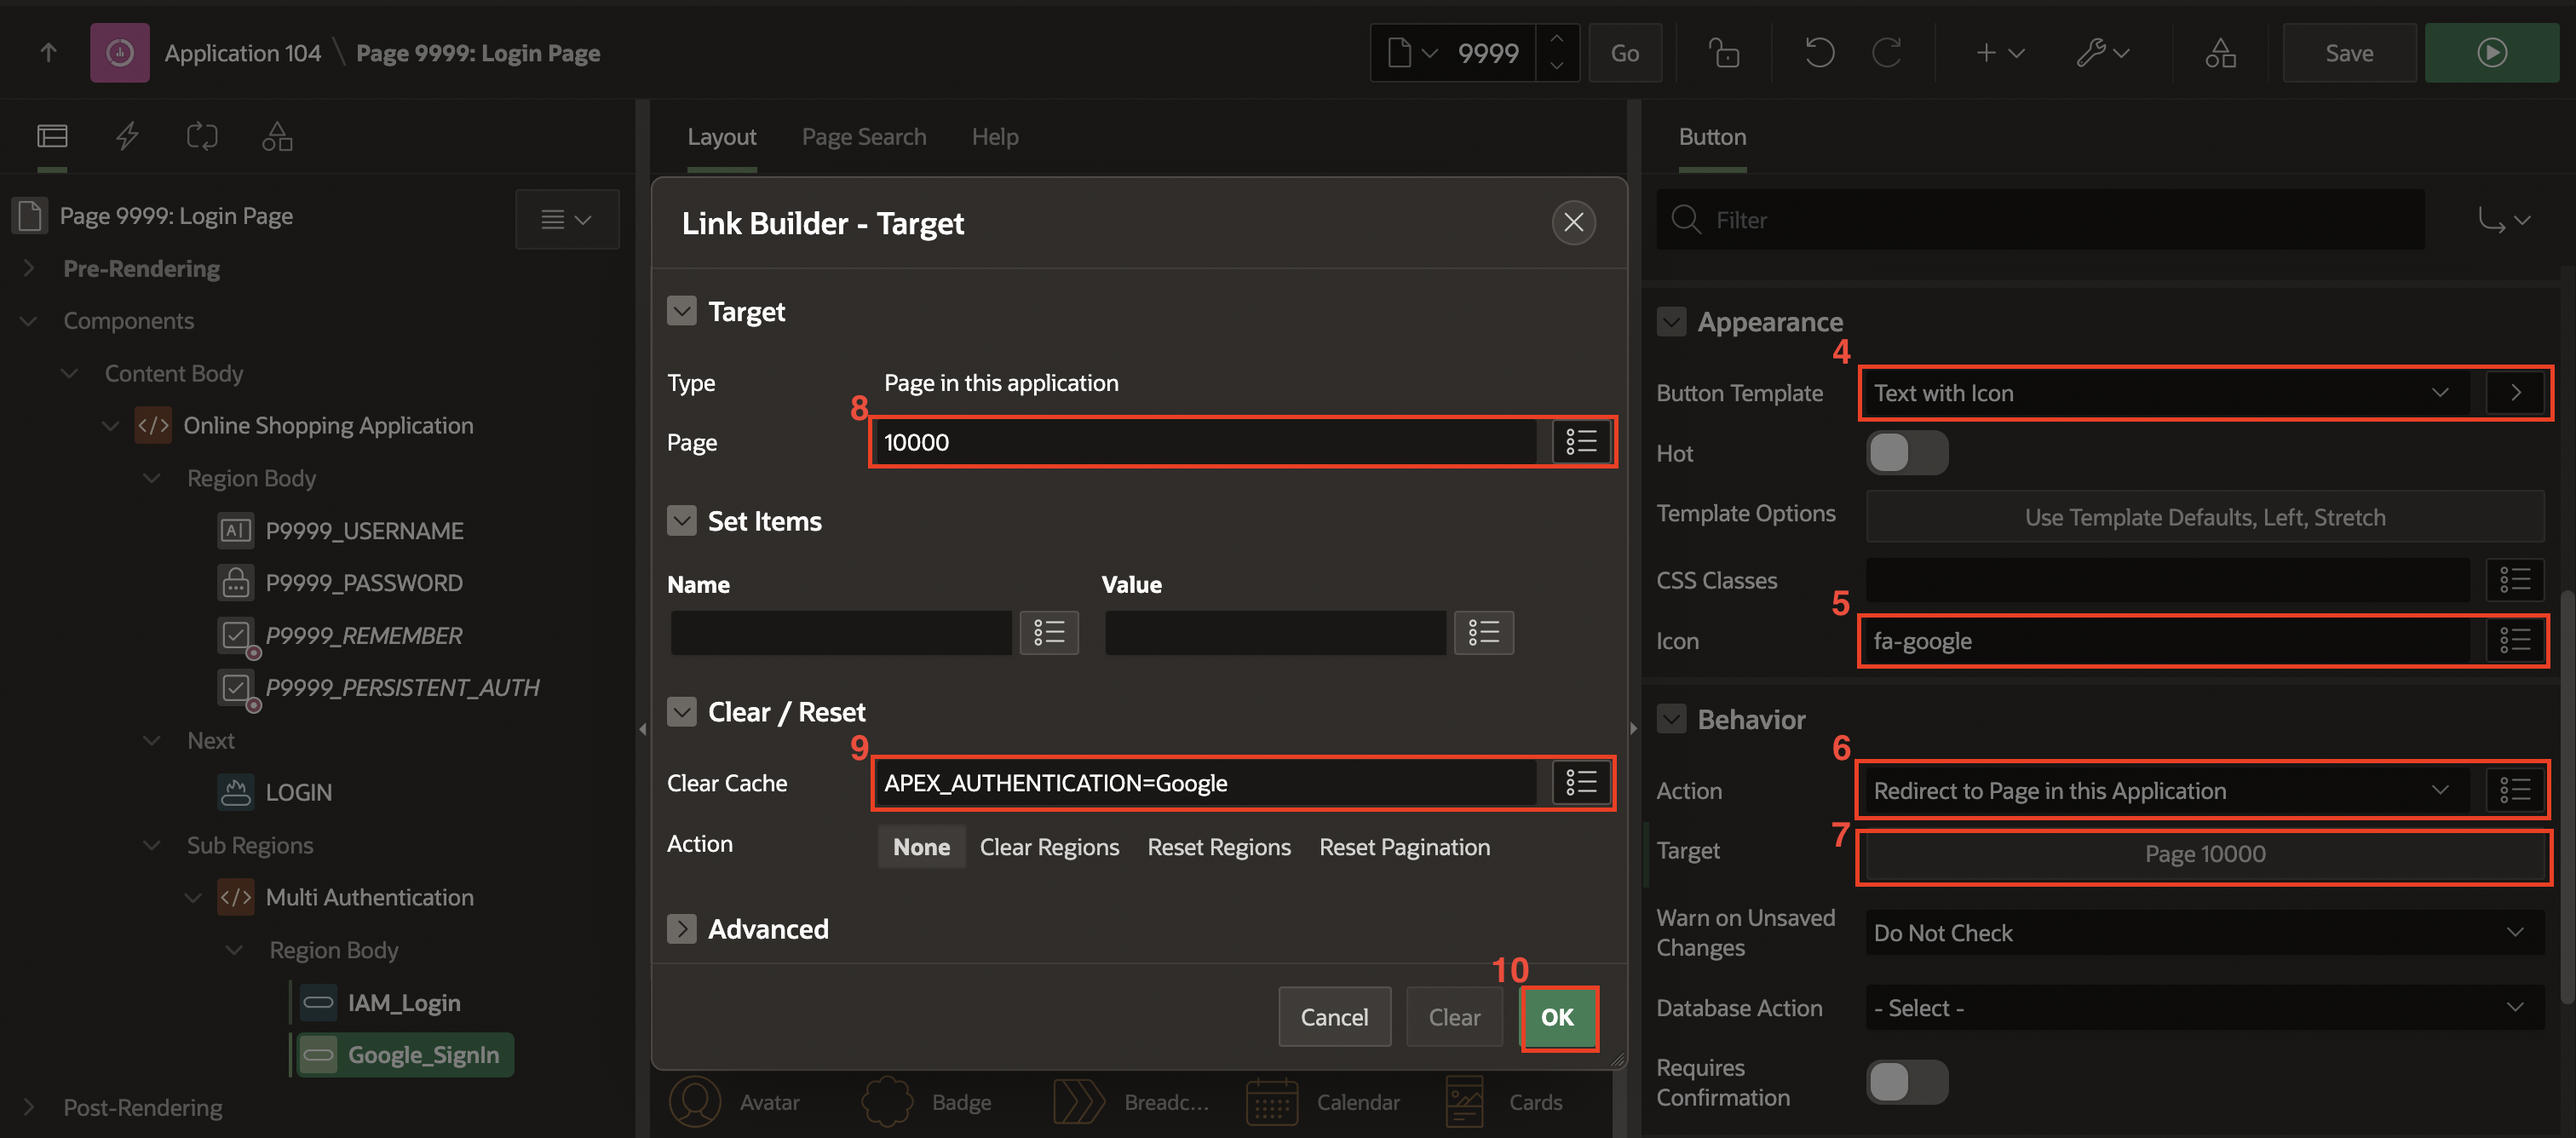
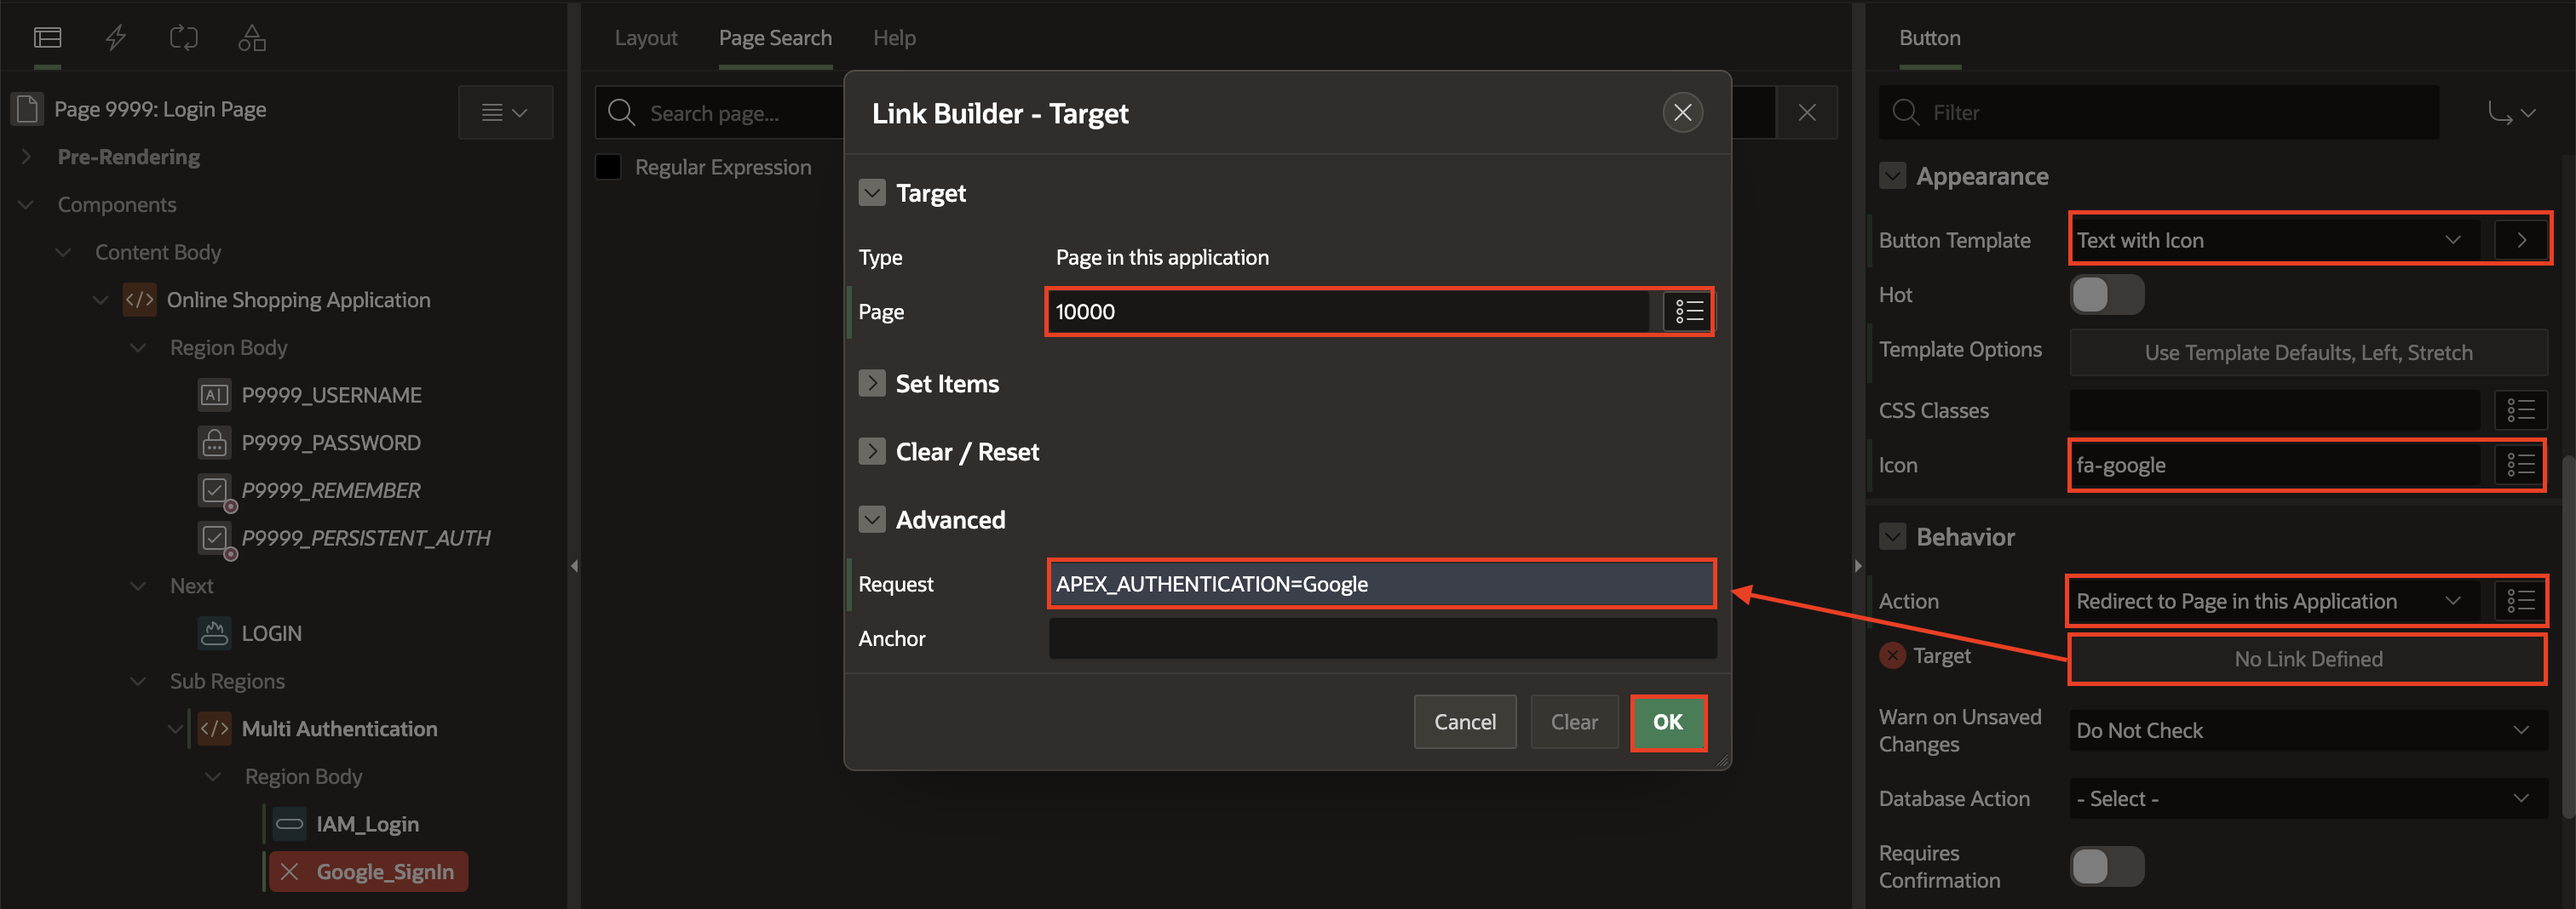
hol17

diff --git a/apex-professional-hol17/implementing-security-inapp.md b/apex-professional-hol17/implementing-security-inapp.md
@@ -8,9 +8,25 @@ This hands-on lab demonstrates how to integrate these features step-by-step, ens
 
 Estimated Time: 20 minutes
 
+### Objectives
+
+In this lab, you will:
+
+- Configure Oracle IAM authentication for an application.
+
+- Implement Google Authentication for seamless social sign-in.
+
+- Enable multiple authentication schemes within an Oracle APEX application.
+
 ### Downloads
 
-- Did you miss out on trying the previous labs? Don't worry! You can download the application from **[here](files/online-shopping-cart-10.sql)** and import it into your workspace. To run the app, please run the steps described in **[Get Started with Oracle APEX](https://livelabs.oracle.com/pls/apex/r/dbpm/livelabs/run-workshop?p210_wid=3509)** and **[Using SQL Workshop](https://livelabs.oracle.com/pls/apex/r/dbpm/livelabs/run-workshop?p210_wid=3524)** workshops.
+ Did you miss out on trying the previous labs? Don't worry! You can download the application from **[here](files/online-shopping-cart-10.sql)** and import it into your workspace.
+
+To run the app, please run the steps described in
+
+- **[Get Started with Oracle APEX](https://livelabs.oracle.com/pls/apex/r/dbpm/livelabs/run-workshop?p210_wid=3509)**
+
+- **[Using SQL Workshop](https://livelabs.oracle.com/pls/apex/r/dbpm/livelabs/run-workshop?p210_wid=3524)**
 
 ## Task 1: Configure Oracle IAM Authentication in Online Shopping Application
 
@@ -334,6 +350,8 @@ Providing multiple authentication options improves the flexibility and usability
 
         - Click **OK**
 
+        - Icon: **fa-oracle-o**
+
     - Under Behavior:
 
         - Action: **Redirect to Page in this Application**
@@ -342,11 +360,9 @@ Providing multiple authentication options improves the flexibility and usability
 
             - Target > Page: **10000**
 
-            - Clear/Reset > Clear Cache: **APEX_AUTHENTICATION=IAM**
+            - Advanced > Request: **APEX_AUTHENTICATION=IAM**
 
             - Click **OK**
-
-        - Icon: **fa-oracle-o**
 
     ![Define Authentication](images/iam-btn.png " ")
 
@@ -370,6 +386,8 @@ Providing multiple authentication options improves the flexibility and usability
 
         - Click **OK**
 
+        - Icon: **fa-google**
+
     - Under Behavior:
 
         - Action: **Redirect to Page in this Application**
@@ -381,8 +399,6 @@ Providing multiple authentication options improves the flexibility and usability
             - Clear/Reset > Clear Cache: **APEX_AUTHENTICATION=Google**
 
             - Click **OK**
-
-        - Icon: **fa-google**
 
     ![Define Authentication](images/google-btn1.png " ")
 
@@ -406,6 +422,8 @@ Providing multiple authentication options improves the flexibility and usability
     ![Define Authentication](images/inline-css1.png " ")
 
 9. Click **Save and Run**.
+
+    > **Note:** _If you get reader rights error while clicking on any authentication button, navigate to **User Interface Attributes** in shared components. Select **Security** tab and update **Authorization Scheme** to **- No application authorization required -**.
 
     ![Define Authentication](images/multi-auth1.png " ")
 

diff --git a/apex-professional-hol17/introduction.md b/apex-professional-hol17/introduction.md
@@ -15,13 +15,15 @@ Estimated Time: 20 minutes
 
 ### Objectives
 
+In this lab, you will:
+
 - Configure Oracle IAM authentication for an application.
 
 - Implement Google Authentication for seamless social sign-in.
 
 - Enable multiple authentication schemes within an Oracle APEX application.
 
-*Note: This workshop assumes you are using Oracle APEX 24.2.*
+> **Note:** _This workshop assumes you are using Oracle APEX 24.2.*_
 
 ## Learn More - *Useful Links*
 
